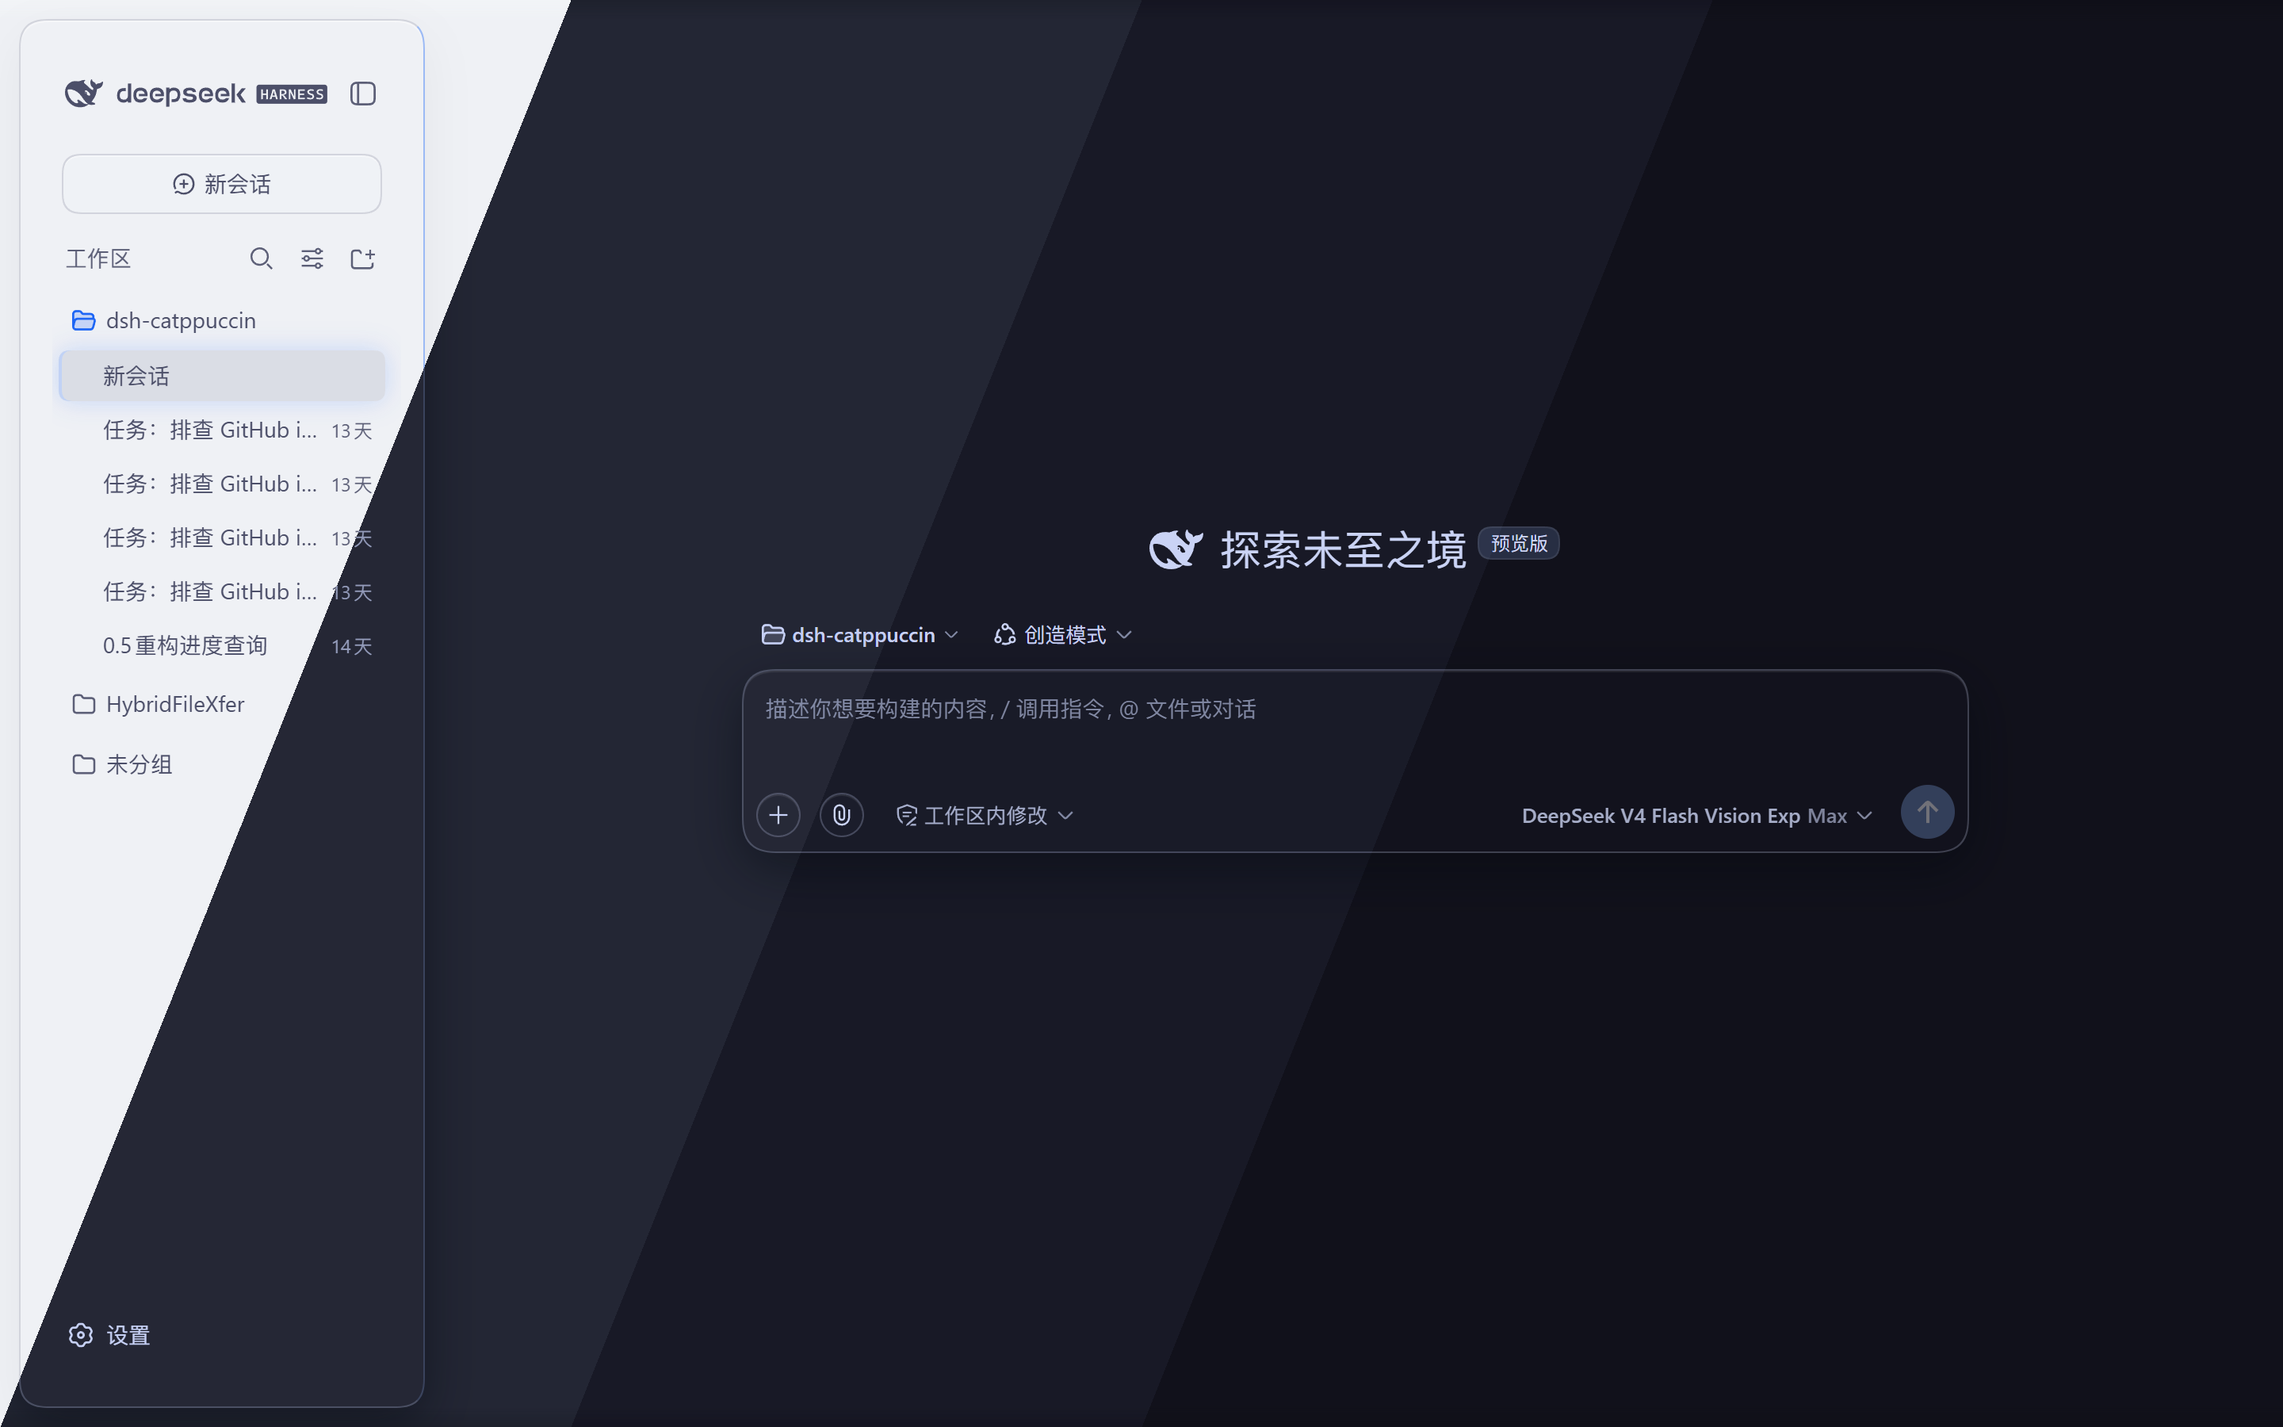
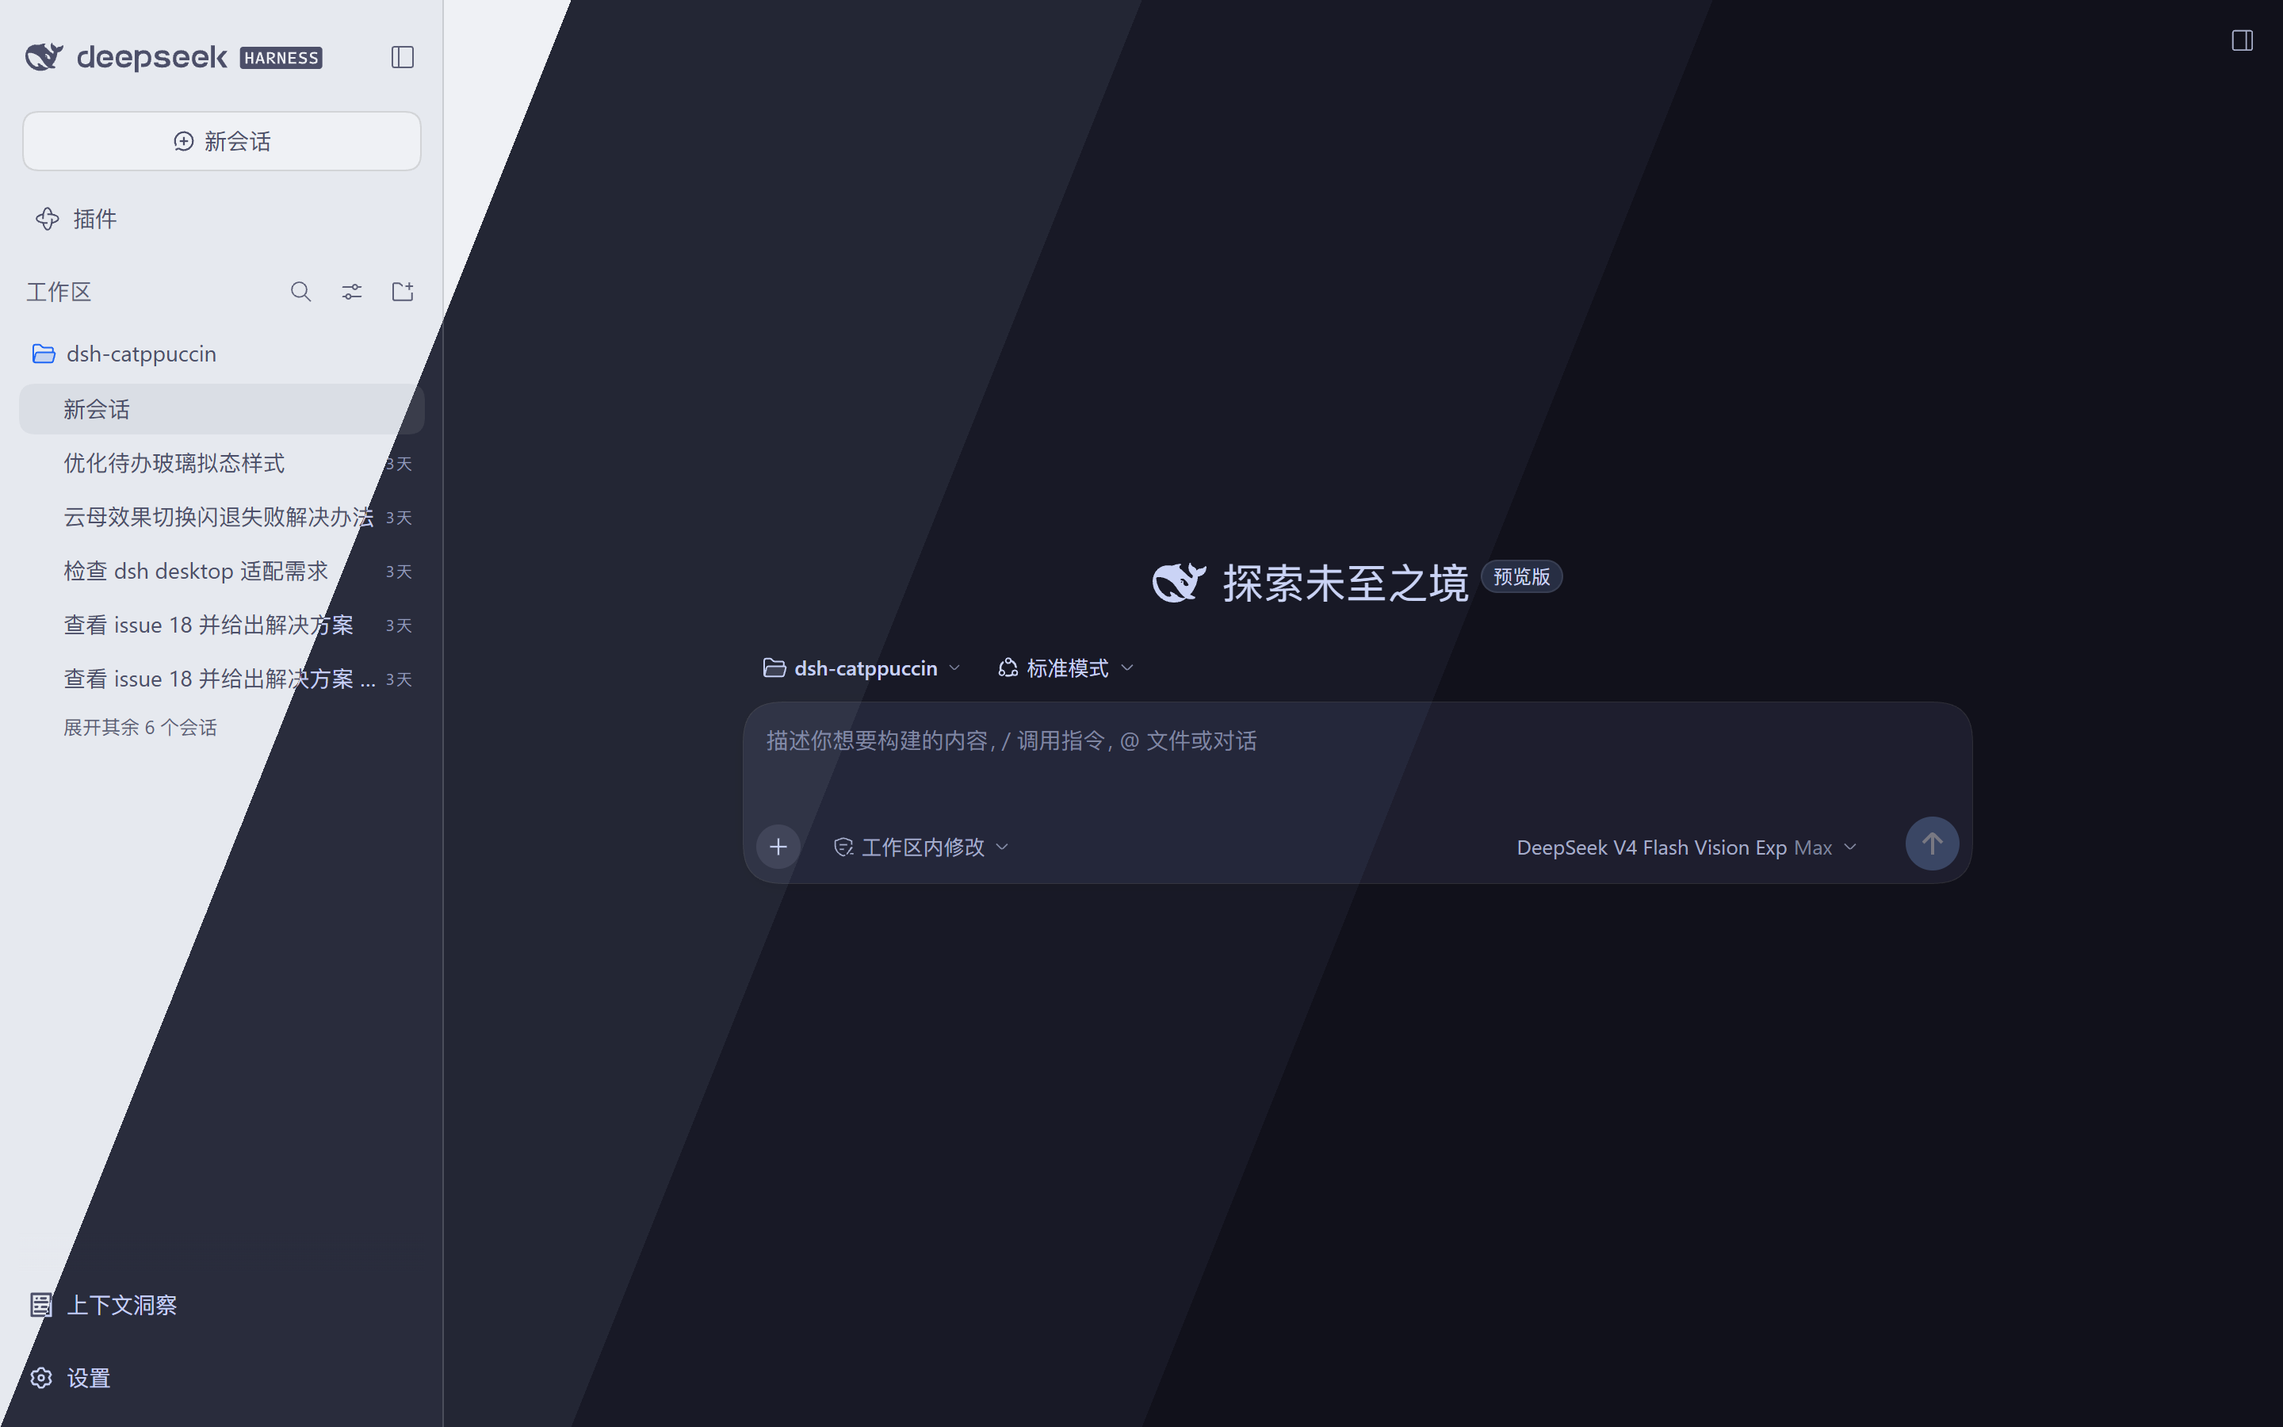
chore(release): 发布 v0.6.0 —— 插件详情页设置区 + README 修缮与预览重拍
正式版 = 0.5.10-beta.1 的功能代码（零代码差异，功能分两批走完 beta 渠道），
本版另含用户文档与预览资产的修缮：

- README 中英两版：目录改横向、修掉三个坏锚点（#常见问题 / #致谢 / #dsh-tui-终端版主题）、
  文首玻璃大图（glass-combined.png）默认折叠、补 dsh-TUI 仓库链接
- 四风味预览图重拍为「关玻璃」：旧图其实是在云母模式下拍的（与 glass-*.png 重复），
  combined.png 随之重建；screenshot-previews.cjs 补 setGlass(false) + 拍前断言修掉根因

本地验证：typecheck / typecheck:tests / build / test 全绿（19 文件 267 用例）。

EN: Release v0.6.0 - plugin-detail settings section, plus README fixes and glass-free flavour previews.

diff --git a/CHANGELOG.md b/CHANGELOG.md
@@ -6,7 +6,14 @@
 版本号遵循 [语义化版本](https://semver.org/lang/zh-CN/)（`0.x.y` 正式版，
 `0.x.y-beta.n` 预发布 → `beta` npm 标签）。
 
-## [Unreleased]
+## [0.6.0] - 2026-10-04
+
+> 与 **`0.5.10-beta.1` 零代码差异**（功能代码一行未动；本版新增的是版本号、CHANGELOG 落节、用户文档与预览资产）：
+> 功能分两批走完 `beta` 渠道——**`0.5.10-beta.0`**（插件卡片图标 + 「检查更新」按宿主分流）与
+> **`0.5.10-beta.1`**（插件详情页的设置区，`plugins.bundle.config` 插槽），本版转正进 `latest`。
+> 另含 README 四处修缮与四风味预览图「关玻璃」重拍（见「文档」节第一条：那条同时修掉了一个
+> **资产错误**——旧的四张风味预览其实是在云母模式下拍的）。
+> ⚠ 这两批的**真机 e2e 均未跑**（本机 Playwright 不可用，属环境限制；详情页设置区可由维护者在官方壳内自测）。
 
 ### 新增
 
@@ -69,6 +76,24 @@
     裁决 ⇒ 即使把分支删掉断言也绿。
 
 ### 文档
+
+- **README 修缮 + 四风味预览图重拍为「关玻璃」**（2026-10-04）。维护者一次点了四处，中英两版同步：
+  - **目录改横向**：由竖排 `- [x](#x)` 列表改成居中内联导航（`<p align="center">` + `·` 分隔）。顺带修掉
+    三个**坏锚点**：`#常见问题` → `#-常见问题`、`#致谢` → `#-致谢`、`#dsh-tui-终端版主题` → `#dsh-tui终端版主题`
+    （GitHub 的 slugger 会把全角括号删掉且**不留连字符**，旧链接点了不跳）。
+  - **文首第二张大图默认折叠**：`glass-combined.png`（2 风味玻璃斜切图）包进 `<details>`，
+    `combined.png`（4 风味）保持展开。
+  - **补 dsh-TUI 链接**：`https://github.com/ccch1mneyyy/dsh-TUI` 加到简介、特性行与
+    「安装 · dsh-TUI」小节（并写明需先自行装好 dsh-TUI）。
+  - **四风味预览图重拍为关玻璃——这是资产错误，不是观感**：`scripts/screenshot-previews.cjs`
+    从头到尾**没碰过玻璃开关**，四张图继承了运行机器的玻璃状态（本机常开）⇒ 四张「风味预览」其实全是
+    云母模式，与 `glass-*.png` 重复。判据：旧图侧栏是**内缩圆角卡片**且会话标题被截断成 `…`；关玻璃后
+    侧栏贴边、标题完整。在 `dsh web` 真页上按 1440×900@2x 重拍四张并重建 `combined.png`
+    （校验值 bodyBg：latte `#eff1f5` / frappe `#232634` / macchiato `#181926` / mocha `#11111b`，
+    且 `[data-dsh-glass-surface]` 计数 0、侧栏 `border-radius: 0px`）。
+    顺带修掉根因：脚本新增 `setGlass(page, false)`（复用 `screenshot-glass.cjs` 的 `总开关` 写法）+
+    拍前 `glassOn()` 断言 + 收工还原用户原玻璃状态。⚠ 这段 patch 在本机**无法执行验证**
+    （Playwright 起不来；重拍实际是走 CDP 完成的），重拍链路已固化为技能 `dsh-preview-shots-cdp`。
 
 - **补一条「刚发版后装到的是上一个版本」的排查指南**（2026-10-03）。现象：发 `0.5.10-beta.0` 当天
   在官方壳插件界面升级，界面显示 `0.5.10-beta.0`，实际装上的却是 `0.5.9-beta.1`（因此卡片没有图标——
@@ -797,7 +822,8 @@
   devDependencies 在安装时不生效）。
 - 0.1.1：补充 repository / homepage / keywords 字段。
 
-[Unreleased]: https://github.com/NoNameLeGo/dsh-catppuccin-theme/compare/v0.5.10-beta.1...HEAD
+[Unreleased]: https://github.com/NoNameLeGo/dsh-catppuccin-theme/compare/v0.6.0...HEAD
+[0.6.0]: https://github.com/NoNameLeGo/dsh-catppuccin-theme/compare/v0.5.9...v0.6.0
 [0.5.9]: https://github.com/NoNameLeGo/dsh-catppuccin-theme/compare/v0.5.8...v0.5.9
 [0.5.8]: https://github.com/NoNameLeGo/dsh-catppuccin-theme/compare/v0.5.7...v0.5.8
 [0.5.7]: https://github.com/NoNameLeGo/dsh-catppuccin-theme/compare/v0.5.6...v0.5.7

diff --git a/README.md b/README.md
@@ -17,30 +17,39 @@
 
 ## 目录
 
-- [简介](#简介)
-- [特性](#特性)
-- [预览](#预览)
-- [安装](#安装)
-- [使用](#使用)
-- [玻璃拟态（Glassmorphism）](#玻璃拟态glassmorphism)
-- [兼容性、权限与失败边界](#兼容性权限与失败边界)
-- [开发](#开发)
-- [🙋 常见问题](#常见问题)
-- [💝 致谢](#致谢)
+<p align="center">
+	<a href="#简介">简介</a> ·
+	<a href="#特性">特性</a> ·
+	<a href="#预览">预览</a> ·
+	<a href="#安装">安装</a> ·
+	<a href="#使用">使用</a> ·
+	<a href="#玻璃拟态glassmorphism">玻璃拟态</a> ·
+	<a href="#兼容性权限与失败边界">兼容性</a> ·
+	<a href="#开发">开发</a> ·
+	<a href="#-常见问题">🙋 常见问题</a> ·
+	<a href="#-致谢">💝 致谢</a>
+</p>
 
 <p align="center">
 	<img src="https://raw.githubusercontent.com/NoNameLeGo/dsh-catppuccin-theme/main/assets/previews/combined.png" width="100%" alt="Catppuccin 四主题下的 DeepSeek Harness"/>
-	<br/><br/>
+</p>
+
+<details>
+<summary> 关键字高亮 · Latte &amp; Mocha</summary>
+
+<p align="center">
 	<img src="https://raw.githubusercontent.com/NoNameLeGo/dsh-catppuccin-theme/main/assets/previews/glass-combined.png" width="100%" alt="玻璃质感 · Latte & Mocha"/>
 </p>
+
+</details>
 
 ## 简介
 
 [DeepSeek Harness](https://github.com/deepseek-ai/deepseek-harness) 的
 [Catppuccin](https://github.com/catppuccin/catppuccin) 主题插件——一个包同时适配
 **Web GUI**（`dsh web`）、**桌面版**（官方 Electron 壳 `apps/desktop` 与社区 DSH Desktop，
-共用 `desktop` profile）与 **dsh-TUI** 终端：Web / 桌面端做全界面换色与玻璃质感，
-TUI 端自动同步四套官方主题色板。
+共用 `desktop` profile）与 **[dsh-TUI](https://github.com/ccch1mneyyy/dsh-TUI)** 终端：
+Web / 桌面端做全界面换色与玻璃质感，TUI 端自动同步四套官方主题色板。
 
 它内置 Catppuccin 的四个主题——**Latte**、**Frappé**、**Macchiato**、**Mocha**——
 把整个界面的配色都换成对应的 Catppuccin 色板；并在 **设置 → 常规 → 外观**
@@ -68,7 +77,7 @@ Catppuccin 主题。
   纯色背景跟随主题底色——内容滚入视口边缘时柔化穿过，层次更立体
 - 🎨 玻璃配色自动跟随当前 Catppuccin 主题
 - 🔄 **检查 Catppuccin 插件更新**：设置页一键检测本插件（dsh-catppuccin）在 npm 上的最新版本，发现新版直接给出可复制的升级命令；**默认开启自动检查**（启动后一次 + 每 6 小时），更新渠道可选稳定版 / Beta
-- 💻 **dsh-TUI 终端主题**：一条安装命令装进 dsh-TUI，四套主题自动同步到 `~/.dsh-tui/themes/`，见[安装 · dsh-TUI](#dsh-tui-终端版主题)
+- 💻 **[dsh-TUI](https://github.com/ccch1mneyyy/dsh-TUI) 终端主题**：一条安装命令装进 dsh-TUI，四套主题自动同步到 `~/.dsh-tui/themes/`，见[安装 · dsh-TUI](#dsh-tui终端版主题)
 
 ## 预览
 
@@ -151,9 +160,10 @@ dsh plugin --profile web add https://github.com/NoNameLeGo/dsh-catppuccin-theme
 桌面版同理，但按上面的表走：**官方壳**在插件界面里直接填 Git 地址；**社区壳**把这条命令的
 `dsh plugin --profile web add …` 换成 `dsh plugin --profile desktop add …`。
 
-### dsh-TUI（终端版）主题
+### **[dsh-TUI](https://github.com/ccch1mneyyy/dsh-TUI)**（终端版）主题
 
-与 Web GUI 插件同一个包。用标准的插件安装命令装进 dsh-tui profile：
+本节针对第三方终端前端 **[dsh-TUI](https://github.com/ccch1mneyyy/dsh-TUI)**（需先自行装好它）。
+与 Web GUI 插件同一个包，用标准的插件安装命令装进 dsh-tui profile：
 
 ```sh
 dsh plugin --profile dsh-tui add @nonamelego/dsh-catppuccin

diff --git a/README.en.md b/README.en.md
@@ -19,29 +19,39 @@
 
 ## Contents
 
-- [Introduction](#introduction)
-- [Features](#features)
-- [Previews](#previews)
-- [Installation](#installation)
-- [Usage](#usage)
-- [Glassmorphism](#glassmorphism)
-- [Compatibility, permissions and failure bounds](#compatibility-permissions-and-failure-bounds)
-- [Development](#development)
-- [🙋 FAQ](#-faq)
-- [💝 Credits](#-credits)
+<p align="center">
+	<a href="#introduction">Introduction</a> ·
+	<a href="#features">Features</a> ·
+	<a href="#previews">Previews</a> ·
+	<a href="#installation">Installation</a> ·
+	<a href="#usage">Usage</a> ·
+	<a href="#glassmorphism">Glassmorphism</a> ·
+	<a href="#compatibility-permissions-and-failure-bounds">Compatibility</a> ·
+	<a href="#development">Development</a> ·
+	<a href="#-faq">🙋 FAQ</a> ·
+	<a href="#-credits">💝 Credits</a>
+</p>
 
 <p align="center">
 	<img src="https://raw.githubusercontent.com/NoNameLeGo/dsh-catppuccin-theme/main/assets/previews/combined.png" width="100%" alt="DeepSeek Harness under the four Catppuccin flavours"/>
-	<br/><br/>
+</p>
+
+<details>
+<summary>🪟 Glass skin (Mica mode) · Latte &amp; Mocha</summary>
+
+<p align="center">
 	<img src="https://raw.githubusercontent.com/NoNameLeGo/dsh-catppuccin-theme/main/assets/previews/glass-combined.png" width="100%" alt="Glass skin · Latte & Mocha"/>
 </p>
+
+</details>
 
 ## Introduction
 
 A [Catppuccin](https://github.com/catppuccin/catppuccin) theme plugin for
 [DeepSeek Harness](https://github.com/deepseek-ai/deepseek-harness) — one package that fits
 the **Web GUI** (`dsh web`), the **desktop shells** (the official Electron `apps/desktop` and the
-community DSH Desktop — both on the same `desktop` profile) and **dsh-TUI** alike: full recolouring plus a
+community DSH Desktop — both on the same `desktop` profile) and
+**[dsh-TUI](https://github.com/ccch1mneyyy/dsh-TUI)** alike: full recolouring plus a
 glass skin on Web / Desktop, and the four official theme palettes auto-synced to the TUI.
 
 It ships all four Catppuccin flavours — **Latte**, **Frappé**, **Macchiato**, **Mocha** —
@@ -75,8 +85,9 @@ Catppuccin theme automatically.
 - 🔄 **Update check**: one-click "Check for updates" in Settings compares the latest npm
   version and gives you a copyable upgrade command; **auto-check is on by default** (once at
   startup, then every 6 hours) and the release channel switches between stable and beta
-- 💻 **dsh-TUI terminal themes**: one command installs into dsh-TUI; the four themes sync to
-  `~/.dsh-tui/themes/` automatically (see [Installation · dsh-TUI](#dsh-tui-terminal-themes))
+- 💻 **[dsh-TUI](https://github.com/ccch1mneyyy/dsh-TUI) terminal themes**: one command installs into
+  dsh-TUI; the four themes sync to `~/.dsh-tui/themes/` automatically
+  (see [Installation · dsh-TUI](#dsh-tui-terminal-themes))
 
 ## Previews
 
@@ -170,7 +181,8 @@ plugin UI, while the **community shell** runs the same command with
 
 ### dsh-TUI (terminal) themes
 
-The same package covers the TUI. Install it into the dsh-tui profile:
+This section covers **[dsh-TUI](https://github.com/ccch1mneyyy/dsh-TUI)**, a third-party terminal
+front end (install it first). The same package covers the TUI — install it into the dsh-tui profile:
 
 ```sh
 dsh plugin --profile dsh-tui add @nonamelego/dsh-catppuccin

diff --git a/AGENTS.md b/AGENTS.md
@@ -253,10 +253,15 @@ Plugins 页每个 bundle 卡片的图标来自 **Host 读取的包元数据**，
 - 预发布（**含** `-`）：`0.x.y-beta.n` → 发布后进 `beta` 标签
 - `publish.yml` 用 `require('./package.json').version.includes('-')` 自动判断 `latest`/`beta`，无需手动指定。
 
-> ⚠ **发版版本号**：`latest` = **`0.5.9`**（2026-10-02），`beta` = **`0.5.10-beta.1`**（2026-10-04；
-> Publish run `37179583576` success，日志 `+ @nonamelego/dsh-catppuccin@0.5.10-beta.1` 带 provenance；CI `37179583423`
-> check + boot-e2e 双绿；dist-tags 约 45 s 内生效）。
-> **`0.5.10-beta.1`（内容在 CHANGELOG 的 `[Unreleased]`，按仓库惯例预发布不单独落节）= 插件详情页加上设置区**：
+> ⚠ **发版版本号**：`latest` = **`0.6.0`**（2026-10-04；与 `0.5.10-beta.1` **零代码差异**），
+> `beta` = **`0.5.10-beta.1`**（2026-10-04）。
+> **`0.6.0`（正式版）= 插件详情页加上设置区 + 插件卡片图标 + 「检查更新」按宿主分流 + README 修缮与
+> 四风味预览关玻璃重拍**——四条完整条目见 CHANGELOG 的 `## [0.6.0] - 2026-10-04` 节。⚠ 真机 e2e **未跑**
+> （本机 Playwright 不可用，属环境限制；详情页设置区可由维护者在官方壳内自测）。
+> 上一版 `latest` = **`0.5.9`**（2026-10-02）。
+> 上一版 `beta` = **`0.5.10-beta.1`**（2026-10-04；Publish run `37179583576` success，日志
+> `+ @nonamelego/dsh-catppuccin@0.5.10-beta.1` 带 provenance；CI `37179583423` check + boot-e2e 双绿；
+> dist-tags 约 45 s 内生效）= 插件详情页加上设置区（预发布按仓库惯例不单独落节，转正后落成 `## [0.6.0]`）：
 > 新增 `src/client/detail-card.tsx` + `plugins.bundle.config` 插槽注册（key = **npm 包名**），把「设置 → 通用」
 > 那三条行也挂到插件自己的详情页上；数据层零改动（两个入口共用 `CATPPUCCIN_ENTRY_ID` 那份 section）。
 > 机制取证与护栏见「## 插件详情页的设置区」一节。**测试 267 全绿**，三条变异实测会红（key 换成条目 id /
